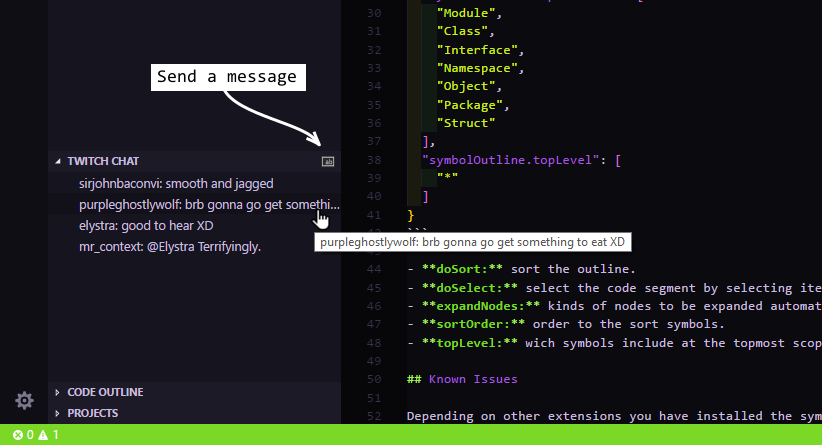
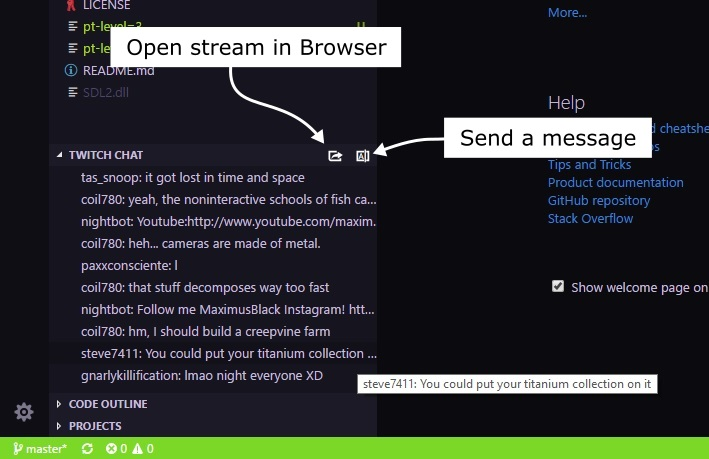
Updating to 0.2.1

Changed region(s): [[0.0, 0.0, 1.0, 0.9933], [0.7757, 0.0, 0.8378, 0.0584]]

diff --git a/CHANGELOG.md b/CHANGELOG.md
@@ -1,4 +1,22 @@
-## Angular Essentials Changelog
+## Twitch Chat Changelog
+
+<a name="0.2.1"></a>
+# 0.2.1 (2018-01-02)
+
+* Fix
+  * Updated CHANGELOG
+  * Updated README
+
+<a name="0.2.0"></a>
+# 0.2.0 (2018-01-02)
+
+* Feature
+  * Change channel
+  * Open stream in browser
+
+* Changes
+  * Added new icons
+  * Added channel join message with online indecator
 
 <a name="0.1.0"></a>
 # 0.1.0 (2018-29-01)

diff --git a/README.md b/README.md
@@ -30,10 +30,7 @@ These settings have to be
 ```
 ## Known Issues
 
+Most of these issues are because of VS code extension API limitations.
+
 - The Chatlogs are limited to a set height, therefore text is cut off and you have to read the content by hovering the entry
 - Chat emotes are not displayed
-
-## Planned feature
-
-- Channel switching
-- Highlight mentions of the configured username
